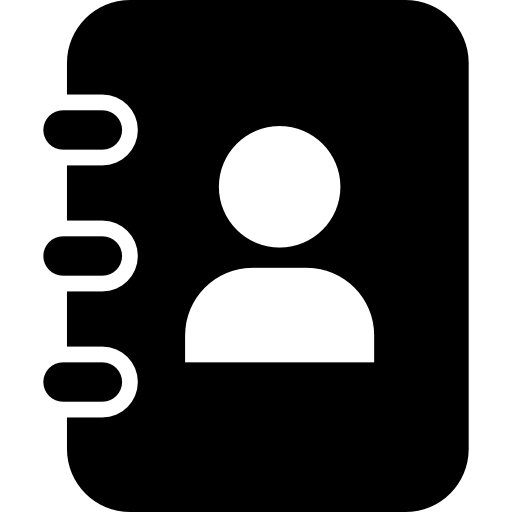
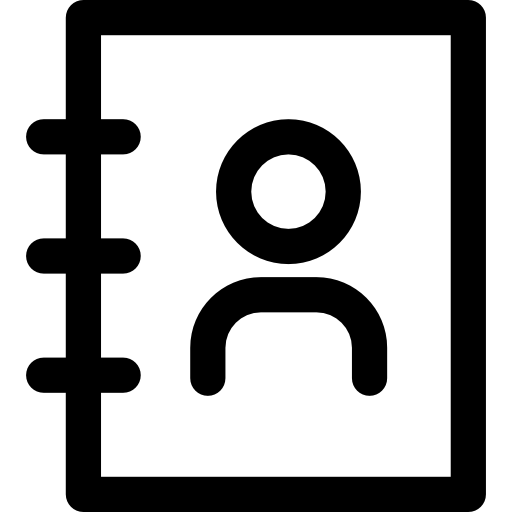
intento de conexion de la imagen con base64 e iconos del navbar puestos

diff --git a/BiteDetector/src/Tabs.js b/BiteDetector/src/Tabs.js
@@ -1,23 +1,68 @@
 import React from "react";
-import { View, Text, StyleSheet } from "react-native";
+import { View, Text, StyleSheet, Image } from "react-native";
 import { createBottomTabNavigator } from "@react-navigation/bottom-tabs";
 import HomeStackScreen from "./stacks/HomeStackScreen";
 import SettingsStackScreen from "./stacks/SettingsStackScreen";
 import { NavigationContainer } from "@react-navigation/native";
-import ContactosDeEmergencia from './screens/ContactosDeEmergencia';
-import HistorialPicaduras from './screens/HistorialPicaduras';
-import Scanner from './screens/Scanner.js';
+import ContactosDeEmergencia from './screens/contactosDeEmergencia';
+import HistorialPicaduras from './screens/historialPicaduras';
+import Scanner from './screens/scanner.js';
+
+import iniciarSesion from '../assets/iniciarSesion.png';
+import historialPicaduras from '../assets/historialPicaduras.png';
+import scanner from '../assets/scanner.png';
+import contactosDeEmergencia from '../assets/contactosDeEmergencia.png';
+
 
 
 const Tabs = () => {
   const Tab = createBottomTabNavigator();
   return (
     <NavigationContainer>
-      <Tab.Navigator screenOptions={{ headerShown: false }}>
-        <Tab.Screen name="Scanner" component={Scanner}/>
-        <Tab.Screen name="Contactos" component={ContactosDeEmergencia}/>
-        <Tab.Screen name="Historial" component={HistorialPicaduras}/>
-        <Tab.Screen name="Perfil" component={HomeStackScreen}/>
+      <Tab.Navigator 
+        screenOptions={{ headerShown: false }}
+        tabBarOptions={{
+          style: {
+            backgroundColor: 'blue', // Cambia el color de fondo aquí
+          },
+        }}
+      >
+        <Tab.Screen 
+          name="Scanner" 
+          component={Scanner}
+          options={{
+            tabBarIcon: () => (
+              <Image source={scanner} style={{ width: 50, height: 50 }} />
+            )
+          }}
+        />
+        <Tab.Screen 
+          name="Contactos" 
+          component={ContactosDeEmergencia}
+          options={{
+            tabBarIcon: () => (
+              <Image source={contactosDeEmergencia} style={{ width: 30, height: 30 }} />
+            )
+          }}
+        />
+        <Tab.Screen 
+          name="Historial" 
+          component={HistorialPicaduras}
+          options={{
+            tabBarIcon: () => (
+              <Image source={historialPicaduras} style={{ width: 30, height: 30 }} />
+            )
+          }}
+        />
+        <Tab.Screen 
+        name="Perfil" 
+        component={HomeStackScreen}
+        options={{
+          tabBarIcon: () => (
+            <Image source={iniciarSesion} style={{ width: 30, height: 30 }} />
+          )
+        }}
+        />
       </Tab.Navigator>
     </NavigationContainer>
   );

diff --git a/BiteDetector/src/screens/scanner.js b/BiteDetector/src/screens/scanner.js
@@ -6,6 +6,9 @@ import * as MediaLibrary from 'expo-media-library';
 import Boton from '../components/Boton';
 import Lupa from '../../assets/Lupa.png';
 import API from '../API';
+import axios from 'axios';
+import * as FileSystem from 'expo-file-system';
+
 
 const Scanner =() => {
 const [hasCameraPermission, setHasCameraPermission]= useState(null);
@@ -18,7 +21,7 @@ const [IdInsecto, setIdInsecto] = useState(null);
 const [probabilidades, setProbabilidades] = useState(null);
 const [IdPicadura, setIdPicadura] = useState(null);
 const [foto, setFoto] = useState("");
-
+const [capturedImage, setCapturedImage] = useState(null);
 
 useEffect(() =>{
     (async () =>{
@@ -28,21 +31,30 @@ useEffect(() =>{
     }) ();
 },[])
 
-
 if(hasCameraPermission === false)
 {
     return <Text> No acces to camera</Text>
 }
 
 const takePicture = async () =>{
+    axios
     if (cameraRef){
         try{
             const data = await cameraRef.current.takePictureAsync();
             console.log(data);
             setImage(data.uri);
+            let url = API.ApiIa;
+
+            const imageFile = await FileSystem.readAsStringAsync(data.uri, {
+                encoding: FileSystem.EncodingType.Base64,
+            });
+
+            const response = await axios.post(url, { image: imageFile });
+
+            console.log('Respuesta del backend:', response.data);
 
         }catch(e){
-            console.log(e);
+            console.error('Error back', e);
         }
     }
 }
@@ -60,6 +72,24 @@ const saveImage= async () =>{
     }
 }
 
+/*
+const handleTakePicture = async () => {
+    try {
+      const photo = await cameraRef.current.takePictureAsync();
+      setCapturedImage(photo);
+
+      // Enviar todo el objeto de la imagen al backend
+      const response = await axios.post('URL_DEL_BACKEND', { photo });
+
+      // Manejar la respuesta del backend aquí
+      console.log('Respuesta del backend:', response.data);
+    } catch (error) {
+      // Manejar los errores aquí
+      console.error('Error al tomar y enviar la imagen al backend:', error);
+    }
+  };
+
+
 const imageSubmit = async () => {
     let objeto = {
         IdPicadura : IdPicadura,
@@ -75,7 +105,8 @@ const imageSubmit = async () => {
     const response = await axios.post( url, objeto)
     .then(alert("hola"))
     console.log("objeto de api" + objeto)
-}
+}*/
+
 return (
     <View style={styles.container}>
         {!image ?

diff --git a/BiteDetector/src/stacks/HomeStackScreen.js b/BiteDetector/src/stacks/HomeStackScreen.js
@@ -4,9 +4,8 @@ import { createNativeStackNavigator } from "@react-navigation/native-stack";
 /*import contactosDeEmergencia from '../screens/contactosDeEmergencia';
 import historialPicaduras from '../screens/historialPicaduras';
 import scanner from '../screens/scanner';*/
-import IniciarSesion from '../screens/IniciarSesion.js';
-import Registrarse from '../screens/Registrarse.js';
-import { useNavigation } from '@react-navigation/native';
+import IniciarSesion from '../screens/iniciarSesion.js';
+import Registrarse from '../screens/registrarse.js';
 
 
 const HomeStackScreen = () => {

diff --git a/BiteDetector/src/API.js b/BiteDetector/src/API.js
@@ -1,4 +1,5 @@
-const PORT = 'A-PHZ2-CIDI-004';
+//const PORT = 'A-PHZ2-CIDI-004';
+const PORT = 'localhost'
 
 const API = /*(id) =*/ {
     ApiHistorial: 'http://' + PORT + ':3000/api/historial/',
@@ -13,3 +14,5 @@ const API = /*(id) =*/ {
 }
 
 export default API;
+
+// http://A-PHZ2-CIDI-004:3000/api/IA/

diff --git a/BiteDetector/src/screens/iniciarSesion.js b/BiteDetector/src/screens/iniciarSesion.js
@@ -37,7 +37,7 @@ const IniciarSesion = () => {
           );
         }
         else {
-      alert("Escriba algo idiota")
+      alert("Escriba algo por favor!")
       }
     
 
